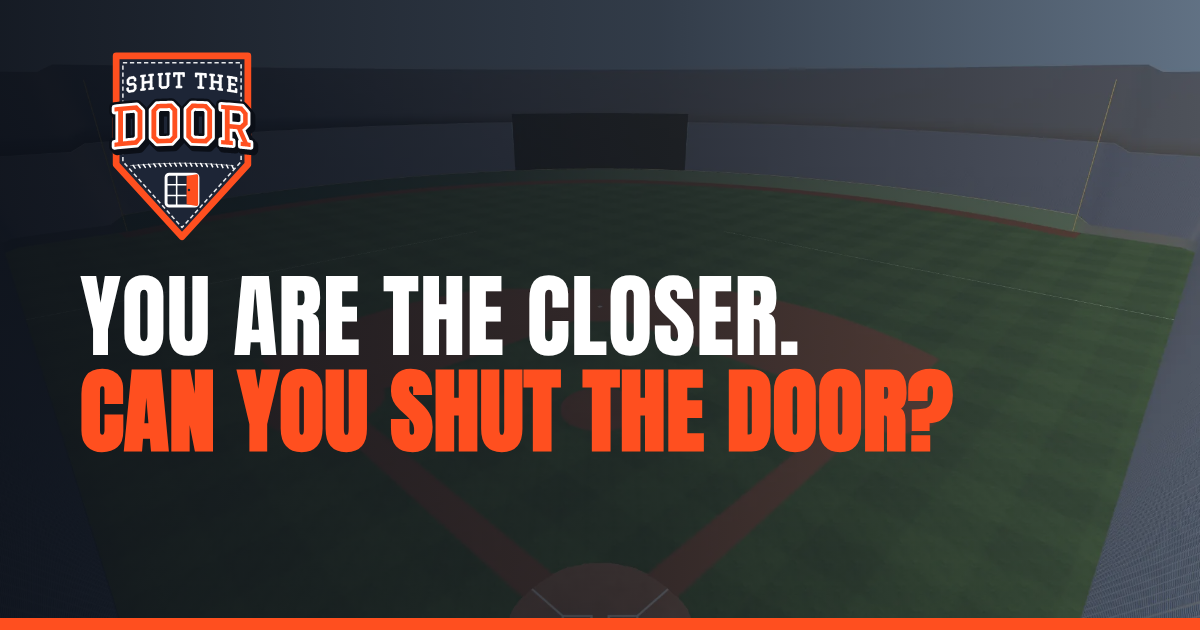
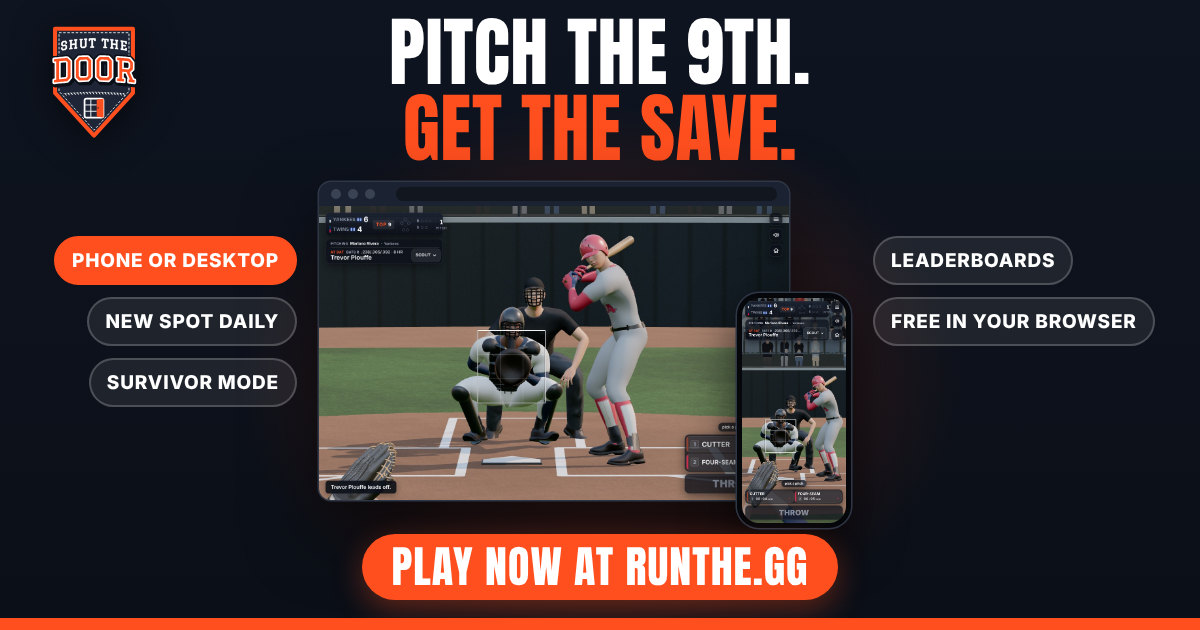
Shut The Door: the new link preview (E2), built from the real game
og.png is now the owner's pick: PITCH THE 9TH. GET THE SAVE. over the real game in a
browser window, the same spot on a phone over its corner, five pills and PLAY NOW AT
RUNTHE.GG as the call to action. The headline survives the square crop and the call to
action sits inside X's 2:1 crop, clear of its domain label.

- brand/og-shots.mjs shoots the two screens from the game (Rivera, Twins at Yankees,
  September 19, 2011, a spot no daily plays soon) into brand/og-screen-*.jpg.
- brand/og.mjs builds og.png from them and the brand, fails on a layout that breaks a
  crop, and holds the page's "43 real save situations" to data/schedule.json.
- index.html: og and twitter title and description to the new copy, og:image alt,
  twitter:image:alt, og.png ?v=1 to ?v=2 in og:image, twitter:image and the JSON-LD.
- check-copy now reads brand/og.mjs, since its words are baked into the image.

Claude-Session: https://claude.ai/code/session_01BGQBLpbhaEqJbgB2SftqB3

diff --git a/shut-the-door/index.html b/shut-the-door/index.html
@@ -8,26 +8,27 @@
      linked from the home page. shut-the-door/check-posture.mjs holds all four. -->
 <meta name="description" content="Shut The Door: one real save situation a day. You are the closer. Every pitch graded. Free, no download.">
 <link rel="canonical" href="https://runthe.gg/shut-the-door/">
-<meta property="og:title" content="Shut The Door: Daily MLB Closer Game">
-<meta property="og:description" content="One real save situation a day. You are the closer. Every pitch graded.">
+<meta property="og:title" content="Shut The Door: pitch the 9th, get the save">
+<meta property="og:description" content="43 real save situations from MLB history. A new one every day. Pick the pitch and hit your spot. Play on phone or desktop, free in your browser.">
 <meta property="og:type" content="website">
 <meta property="og:site_name" content="RunThe.GG">
 <meta property="og:url" content="https://runthe.gg/shut-the-door/">
-<meta property="og:image" content="https://runthe.gg/shut-the-door/og.png?v=1">
+<meta property="og:image" content="https://runthe.gg/shut-the-door/og.png?v=2">
 <meta property="og:image:width" content="1200">
 <meta property="og:image:height" content="630">
-<meta property="og:image:alt" content="Shut The Door: you are the closer. Can you shut the door?">
+<meta property="og:image:alt" content="Shut The Door: pitch the 9th, get the save. The game in a desktop browser and on a phone. Play now at RunThe.gg.">
 <meta name="twitter:card" content="summary_large_image">
 <meta name="twitter:site" content="@RunTheGG">
-<meta name="twitter:title" content="Shut The Door: Daily MLB Closer Game">
-<meta name="twitter:description" content="One real save situation a day. You are the closer. Every pitch graded.">
-<meta name="twitter:image" content="https://runthe.gg/shut-the-door/og.png?v=1">
+<meta name="twitter:title" content="Shut The Door: pitch the 9th, get the save">
+<meta name="twitter:description" content="43 real save situations from MLB history. A new one every day. Pick the pitch and hit your spot. Play on phone or desktop, free in your browser.">
+<meta name="twitter:image" content="https://runthe.gg/shut-the-door/og.png?v=2">
+<meta name="twitter:image:alt" content="Shut The Door: pitch the 9th, get the save. The game in a desktop browser and on a phone. Play now at RunThe.gg.">
 <script type="application/ld+json">
 {"@context":"https://schema.org","@type":"VideoGame","name":"Shut The Door","url":"https://runthe.gg/shut-the-door/",
 "description":"A daily baseball game. Every day everyone gets the same real save situation from MLB history. You are the closer, every pitch is graded, and you finish against the real game.",
 "genre":["Sports","Strategy"],"gamePlatform":["Web browser"],"applicationCategory":"Game",
 "playMode":"SinglePlayer","inLanguage":"en","isAccessibleForFree":true,
-"image":"https://runthe.gg/shut-the-door/og.png?v=1",
+"image":"https://runthe.gg/shut-the-door/og.png?v=2",
 "publisher":{"@type":"Organization","name":"RunThe.GG","url":"https://runthe.gg/"}}
 </script>
 <meta name="theme-color" content="#0b0f17" id="themeMeta">
